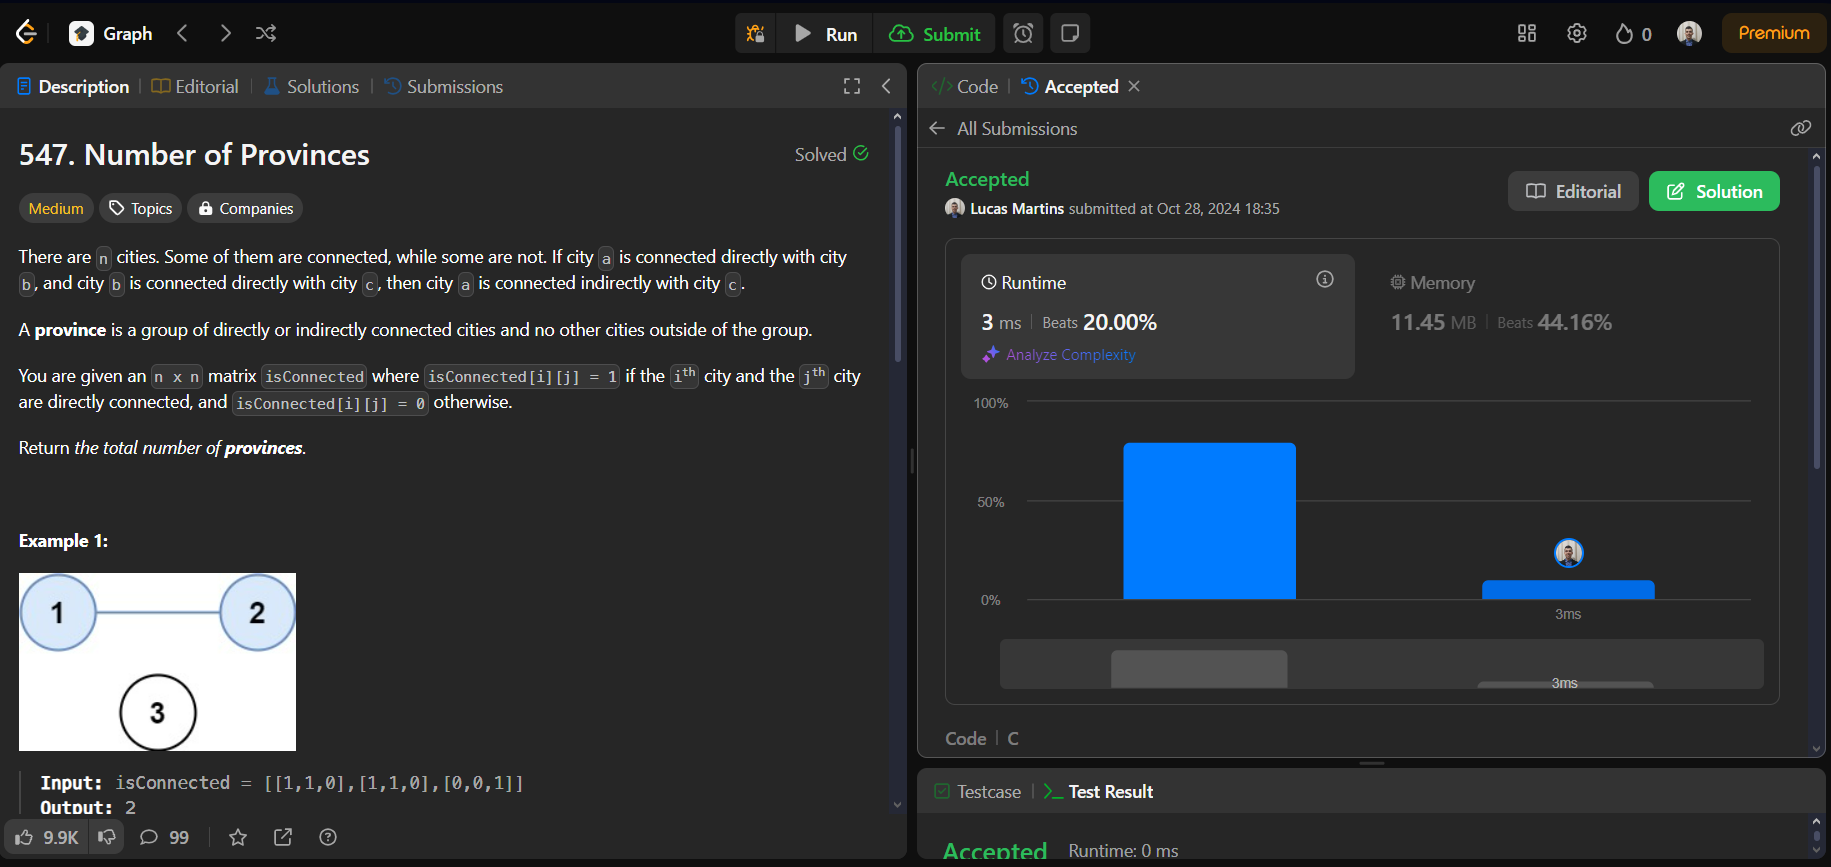
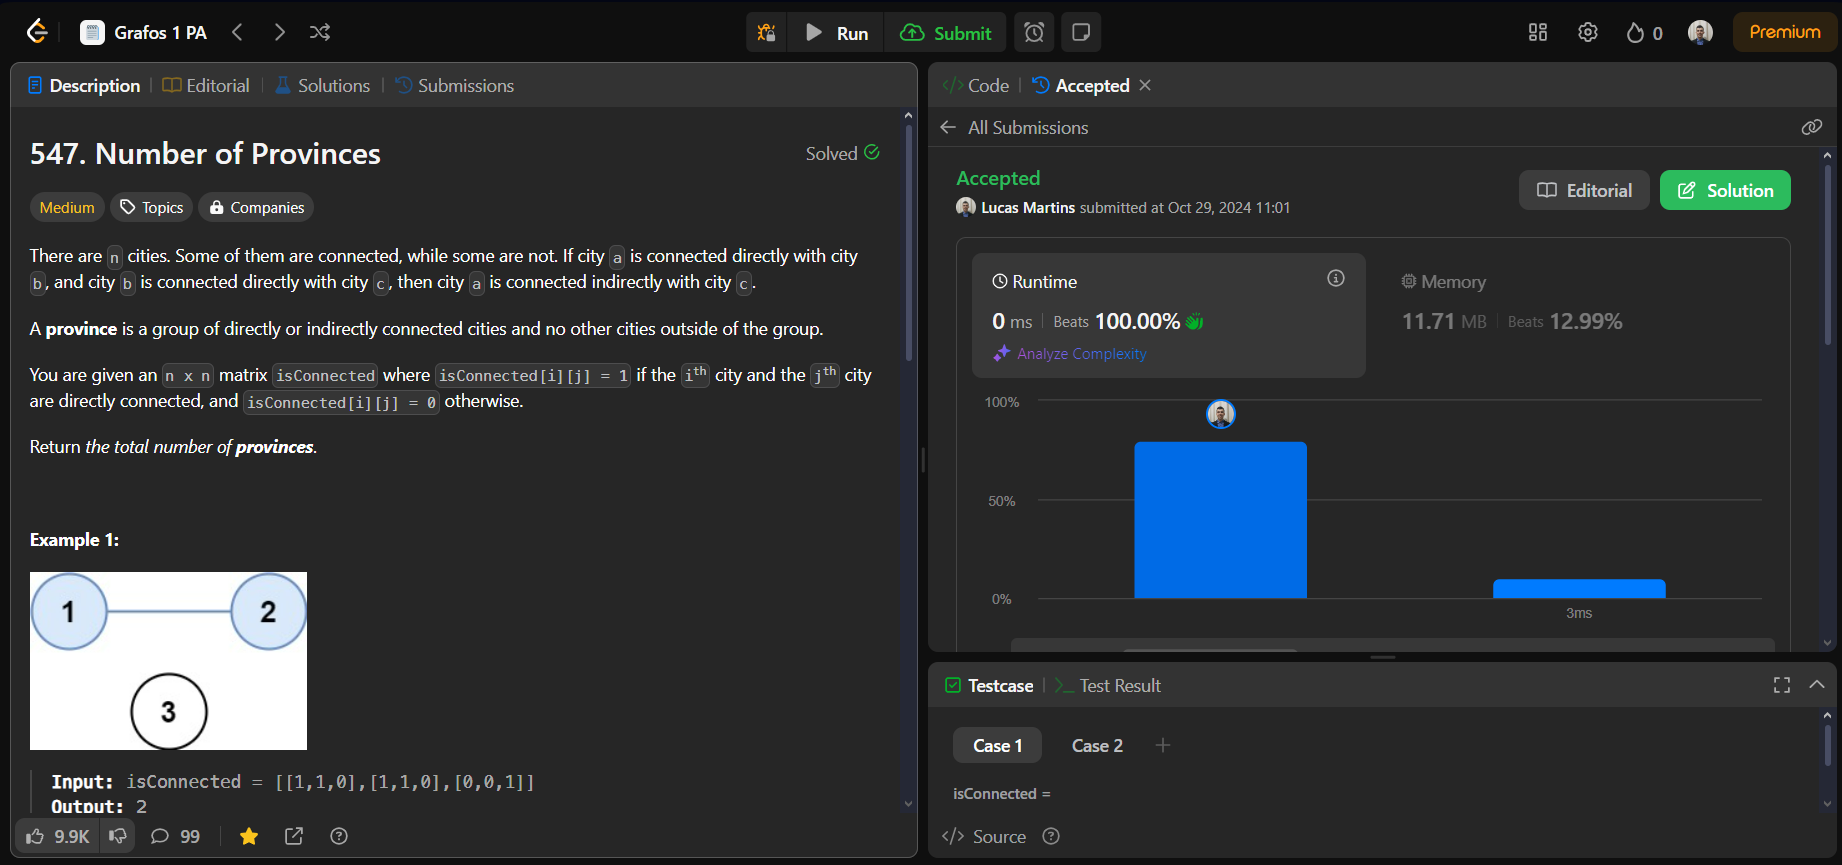
atualiza description

diff --git a/problems/NumberOfProvinces/description.md b/problems/NumberOfProvinces/description.md
@@ -14,25 +14,22 @@ Return the total number of provinces.
 
 ## Example 1
 
-Input: isConnected = [[1,1,0],[1,1,0],[0,0,1]]
-
-Output: 2
+Input: isConnected = [[1,1,0],[1,1,0],[0,0,1]]  
+Output: 2  
 
 ## Example 2
 
-Input: isConnected = [[1,0,0],[0,1,0],[0,0,1]]
-
+Input: isConnected = [[1,0,0],[0,1,0],[0,0,1]]  
 Output: 3
 
+## Constraints
 
-## Constraints:
-
-- 1 <= n <= 200
-- n == isConnected.length
-- n == isConnected[i].length
-- isConnected[i][j] is 1 or 0.
-- isConnected[i][i] == 1
-- isConnected[i][j] == isConnected[j][i]
+- ``1 <= n <= 200``
+- ``n == isConnected.length``
+- ``n == isConnected[i].length``
+- ``isConnected[i][j]`` is ``1`` or ``0``.
+- ``isConnected[i][i] == 1``
+- ``isConnected[i][j] == isConnected[j][i]``
 
 ## Submission
 
